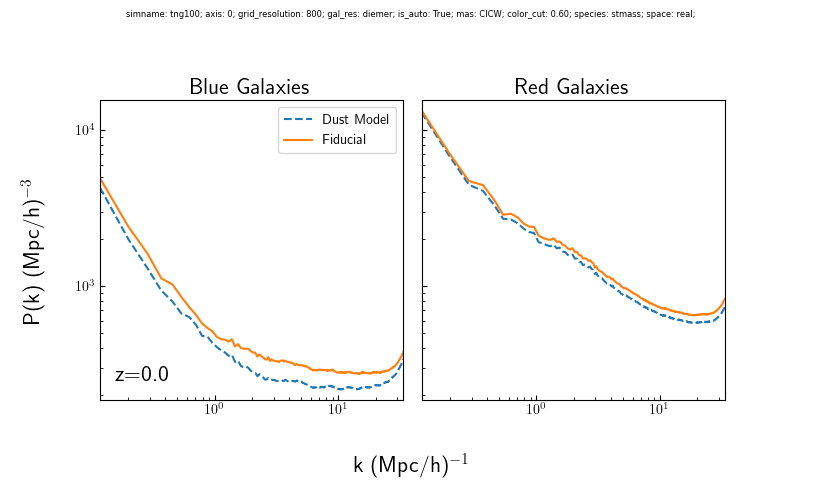
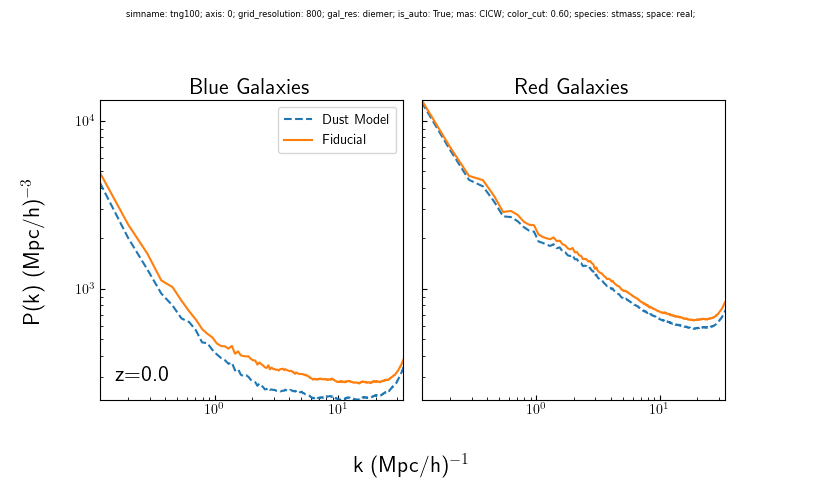
new hiptl figues

diff --git a/hc_lib/plots/figures/hiptl_auto.py b/hc_lib/plots/figures/hiptl_auto.py
@@ -13,8 +13,6 @@ def redshiftR_spaceC_model(rlib, iprops, savePath = '', panel_length = 3, panel_
     
     print('making %sR_%sC_%s figure...'%(row_prop, column_prop, panel_prop))
     figArr, rowlabels, collabels = rlib.organizeFigure(iprops, row_prop, column_prop, 'pk')
-    rowlabels = [r'z=%.1f'%i for i in rowlabels]
-    collabels = [i.capitalize() + ' Space' for i in collabels]
 
     flib = FigureLibrary(figArr)
     # add distortion panels
@@ -61,7 +59,7 @@ def redshiftR_modelC_space(rlib, iprops, savePath = '', panel_length = 3, panel_
     panel_prop = 'space'
 
     figArr, rowlabels, collabels = rlib.organizeFigure(iprops, row_prop, column_prop, 'pk')
-    rowlabels = [r'z=%.1f'%i for i in rowlabels]
+    
     linelabels = {'real':'Real Space', 'redshift':'Redshift Space'}
     colors = {'real':'blue', 'redshift':'red'}
     flib = FigureLibrary(figArr)
@@ -93,11 +91,14 @@ def modelR_spaceC_redshift(rlib, iprops, savePath = '', panel_length = 3, panel_
     row_prop = 'model'
     column_prop = 'space'
     panel_prop = 'redshift'
-    
+
     print('making %sR_%sC_%s figure...'%(row_prop, column_prop, panel_prop))
     figArr, rowlabels, collabels = rlib.organizeFigure(iprops, row_prop, column_prop, 'pk')
-    rowlabels = [r'z=%.1f'%i for i in rowlabels]
-    collabels = [i.capitalize() + ' Space' for i in collabels]
+    linelabels = {}
+    pres = figArr[0, 0]
+    for i in pres:
+        z = i.getProp('redshift')
+        linelabels[z] = '%.1f'%z
 
     flib = FigureLibrary(figArr)
     # add distortion panels
@@ -106,7 +107,7 @@ def modelR_spaceC_redshift(rlib, iprops, savePath = '', panel_length = 3, panel_
     collabels.append('Distortion')
 
     flib.createFig(panel_length, panel_bt, border, border)
-    flib.plotLines(panel_prop)
+    flib.plotLines(panel_prop, linelabels)
     flib.addRowLabels(rowlabels)
     flib.addColLabels(collabels)
     flib.logAxis('y', panel_exceptions = dist_panels_idx_list)
@@ -145,9 +146,11 @@ def redshiftR_spaceC_box(rlib, iprops, savePath = '', panel_length = 3, panel_bt
     
     print('making %sR_%sC_%s figure...'%(row_prop, column_prop, panel_prop))
     figArr, rowlabels, collabels = rlib.organizeFigure(iprops, row_prop, column_prop, 'pk')
-    rowlabels = [i.replace('_', '') for i in rowlabels]
-
-    collabels = [i.capitalize() for i in collabels]
+    pres = figArr[0,0]
+    linelabels = {}
+    for i in pres:
+        box = i.getProp('box')
+        linelabels[box] = '%d$^3$ Mpc/h'%box 
 
     flib = FigureLibrary(figArr)
     # add distortion panels
@@ -156,7 +159,7 @@ def redshiftR_spaceC_box(rlib, iprops, savePath = '', panel_length = 3, panel_bt
     collabels.append('Distortion')
 
     flib.createFig(panel_length, panel_bt, border, border)
-    flib.plotLines(panel_prop)
+    flib.plotLines(panel_prop, linelabels)
     flib.addRowLabels(rowlabels)
     flib.addColLabels(collabels)
     flib.logAxis('y', panel_exceptions = dist_panels_idx_list)
@@ -190,9 +193,12 @@ def redshiftR_spaceC_gridResolution(rlib, iprops, savePath = '', panel_length = 
     
     print('making %sR_%sC_%s figure...'%(row_prop, column_prop, panel_prop))
     figArr, rowlabels, collabels = rlib.organizeFigure(iprops, row_prop, column_prop, 'pk')
-    rowlabels = [i.replace('_', '') for i in rowlabels]
-    collabels = [i.capitalize() for i in collabels]
-
+    
+    linelabels = {}
+    pres = figArr[0,0]
+    for i in pres:
+        gr = i.getProp('grid_resolution')
+        linelabels[gr] = '%d$^3$'%gr
     flib = FigureLibrary(figArr)
     # add distortion panels
     dist_panels_idx_list = flib.addRedshiftDistortion((slice(None), 0), 
@@ -200,7 +206,7 @@ def redshiftR_spaceC_gridResolution(rlib, iprops, savePath = '', panel_length = 
     collabels.append('Distortion')
 
     flib.createFig(panel_length, panel_bt, border, border)
-    flib.plotLines(panel_prop)
+    flib.plotLines(panel_prop, linelabels)
     flib.addRowLabels(rowlabels)
     flib.addColLabels(collabels)
     flib.logAxis('y', panel_exceptions = dist_panels_idx_list)
@@ -235,10 +241,7 @@ def redshiftR_spaceC_simResolution(rlib, iprops, savePath = '', panel_length = 3
     
     print('making %sR_%sC_%s figure...'%(row_prop, column_prop, panel_prop))
     figArr, rowlabels, collabels = rlib.organizeFigure(iprops, row_prop, column_prop, 'pk')
-    rowlabels = [i.replace('_', '') for i in rowlabels]
-
-    collabels = [i.capitalize() for i in collabels]
-
+    linelabels = {'high':'High', 'medium':'Medium', 'low':'Low'}
     flib = FigureLibrary(figArr)
     # add distortion panels
     dist_panels_idx_list = flib.addRedshiftDistortion((slice(None), 0), 
@@ -281,8 +284,6 @@ def redshiftR_spaceC_axis(rlib, iprops, savePath = '', panel_length = 3, panel_b
     
     print('making %sR_%sC_%s figure...'%(row_prop, column_prop, panel_prop))
     figArr, rowlabels, collabels = rlib.organizeFigure(iprops, row_prop, column_prop, 'pk')
-    rowlabels = [r'z=%.1f'%i for i in rowlabels]
-    collabels = [i.capitalize() for i in collabels]
 
     flib = FigureLibrary(figArr)
     # add distortion panels
@@ -334,7 +335,7 @@ def redshiftR_modelC_2D(rlib, iprops, savePath = '', panel_length = 3, panel_bt 
     
     flib.createFig(panel_length, panel_bt, border, border, True)
     flib.plot2D()
-    flib.makeColorbars('P(k$_\parallel$, k$_\perp$) (Mpc/h)$^{-3}$', vlim=[10**2,10**4])
+    flib.makeColorbars('P(k$_\parallel$, k$_\perp$) (Mpc/h)$^{-3}$')
 
     flib.addContours()
 
@@ -365,7 +366,7 @@ def axisR_modelC_2D(rlib, iprops, savePath = '', panel_length = 3, panel_bt = 0.
     
     flib.createFig(panel_length, panel_bt, border, border, True)
     flib.plot2D()
-    flib.makeColorbars('P(k$_\parallel$, k$_\perp$) (Mpc/h)$^{-3}$', vlim=[10**2,10**4])
+    flib.makeColorbars('P(k$_\parallel$, k$_\perp$) (Mpc/h)$^{-3}$')
 
     flib.addContours()
 

diff --git a/hc_lib/plots/fig_lib.py b/hc_lib/plots/fig_lib.py
@@ -225,8 +225,8 @@ class FigureLibrary():
 
                 plt.sca(p)
 
-                mass, _, _ = pslice.getValues()
-                extent=(0, 110.7, 0, 110.7)
+                xlim, ylim, mass = pslice.getValues()
+                extent=(xlim[0], xlim[1], ylim[0], ylim[1])
                 
                 # x_bound, y_bound, mass = pslice.getValues()
                 # extent=(x_bound[0], x_bound[1], y_bound[0], y_bound[1])
@@ -615,12 +615,12 @@ class FigureLibrary():
         self.matchAxisLimits(which='x', panel_exceptions=panel_exceptions)
         return
     
-    def flushYAxisToData(self, result_type = 'pk', except_panels = []):
+    def flushYAxisToData(self, result_type = 'pk', panel_exceptions = []):
+        ylim = [np.inf, -np.inf]
         for i in range(self.dim[0]):
             for j in range(self.dim[1]):
-                if (i, j) not in except_panels:
+                if (i, j) not in panel_exceptions:
                     p = self.panels[i][j]
-                    ylim = [np.inf, -np.inf]
                     plt.sca(p)
                     res_container_list = self.figArr[i, j]
                     xmin, xmax = plt.xlim()
@@ -644,12 +644,12 @@ class FigureLibrary():
                             if ymax > ylim[1]:
                                 ylim[1] = ymax
         
-        #for i in range(self.dim[0]):
-        #    for j in range(self.dim[1]):
-        #        if (i, j) not in except_panels:
-        #            p = self.panels[i][j]
-        #            plt.sca(p)
-        #            plt.ylim(ylim[0], ylim[1])
+        for i in range(self.dim[0]):
+            for j in range(self.dim[1]):
+                if (i, j) not in panel_exceptions:
+                    p = self.panels[i][j]
+                    plt.sca(p)
+                    plt.ylim(ylim[0], ylim[1])
         return
 
     def defaultAxesLabels(self, dtype = 1):

diff --git a/hc_lib/plots/figures/galaxy_auto.py b/hc_lib/plots/figures/galaxy_auto.py
@@ -36,7 +36,7 @@ def redshiftR_spaceC_color(rlib, iprops, savePath = '', panel_length = 3, panel_
     def_ytick_except = flib._defaultTickLabelPanelExceptions('y')
     flib.removeYTickLabels(panel_exceptions = dist_panels_idx_list + def_ytick_except)
     flib.xLimAdjustToNyquist()
-    flib.flushYAxisToData()
+    flib.flushYAxisToData(panel_exceptions = dist_panels_idx_list)
     flib.matchAxisLimits(which = 'x')
     flib.matchAxisLimits(which = 'y', panel_exceptions = dist_panels_idx_list)
     flib.defaultAxesLabels()
@@ -578,7 +578,7 @@ def make_histograms(rlib, iprops, savePath='', panel_length = 3, panel_bt = 1.25
             collabels[c] = 'With Dust'
     flib.createFig(panel_length, panel_bt, border, border)
     flib.plotHists()
-    flib.addRowLabels(rowlabels, pos = (0.9, 0.05), color = 'black')
+    flib.addRowLabels(rowlabels, is2D = True)
     flib.addColLabels(collabels)
     flib.changeTickDirection()
     flib.axisLabel('Log (M$_*$/M$_\odot$)', 'x')

diff --git a/run/figures.py b/run/figures.py
@@ -29,7 +29,7 @@ def main():
     printlib('fieldname')
     
     hiptlAuto(rlib)
-    # galaxyAuto(rlib)
+    galaxyAuto(rlib)
     # hisubhaloAuto(rlib)
     # ptlAuto(rlib)
     # vnAuto(rlib)
@@ -137,6 +137,7 @@ def hiptlAuto(rl):
 
     ip = cc(baseIncludeProps)
     del ip['axis']
+    ip['model'] = 'GD14'
     hiptlFig.redshiftR_spaceC_axis(rl, ip, saveDirPath)
 
     ip = cc(baseIncludeProps)
@@ -210,11 +211,11 @@ def galaxyAuto(rl):
     galFig.colorR_spaceC_grid_resolution(rl, ip, saveDirPath)
 
     ip['grid_resolution'] = 800
-    del ip['sim_resolution']
+    del ip['simname']
     galFig.colorR_spaceC_sim_resolution(rl, ip, saveDirPath)
     
     ip['sim_resolution'] = 'high'
-    del ip['box']
+    #del ip['simname']
     galFig.colorR_spaceC_box(rl, ip, saveDirPath)
 
     
